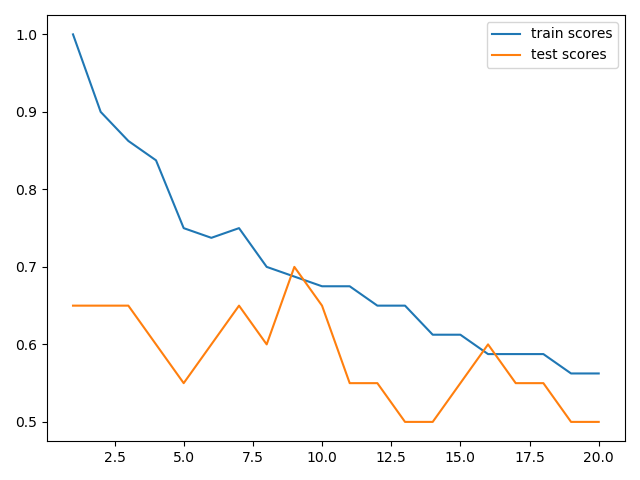
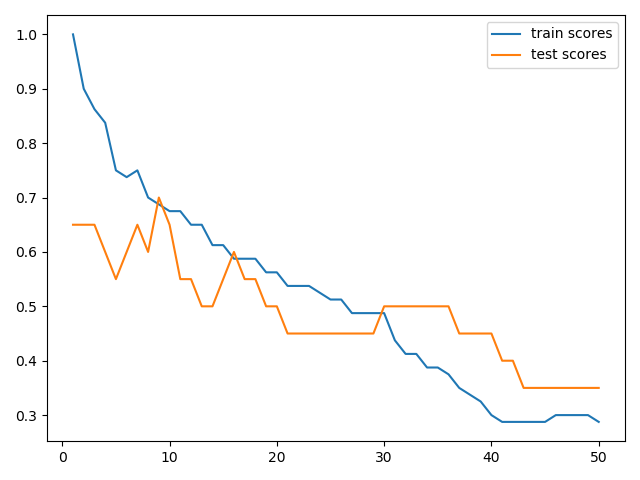
finished testing knn from scratch, sklearn, and paper (theano)

diff --git a/hw5-knn-theano.py b/hw5-knn-theano.py
@@ -5,80 +5,56 @@ from theano import tensor as T
 from random import randint, shuffle
 
 from hw5.libs.common.dataset import Dataset
-from hw5.libs.common.util import int_to_tuple
-from hw5.libs.algo.knn_sklearn import KNNSkLearn
+from hw5.libs.common.util import int_to_tuple, save_to_csv
+from hw5.libs.algo.knn_theano import KNNTheano
 from datetime import datetime
 import matplotlib.pyplot as plt
 
-def edistance(x1, x2):
-    d = x1 - x2
-    z = T.sqrt(T.dot(d, d))
-    return z
-
-# returns the labels of K neighbors
-def kneighbors(dist):
-    train  = T.matrix("train")
-    labels = T.ivector("labels")
-    test_sample = T.vector("sample")
-    k = T.iscalar("k")
-    l = T.ivector("l")
-
-    r, u = theano.scan(lambda row: dist(row, test_sample), sequences=train)
-    z = T.argsort(r)
-    i = z[0:k]
-    l = labels[i]
-    return theano.function(inputs=[train, labels, test_sample, k], outputs=l)
-
-# Returns a label by voting nearest point labels
-def get_nearest():
-    l = T.ivector("l")
-    z = T.extra_ops.bincount(l)
-    a = T.argmax(z)
-    o = l[a]
-    return theano.function(inputs=[l], outputs=o)
-
-
 if __name__ == '__main__':
+    # dataset = Dataset(train_data=1000, test_data=100)
+    # dataset = Dataset(train_data=40, test_data=10)
     dataset = Dataset(train_data=80, test_data=20)
+    # dataset = Dataset()
     X_train, Y_train, X_test, Y_test = dataset.get_dataset()
-    train_scores = []
-    test_scores = []
+    train_scores = [0, 0, 0, 0, 0, 0, 0, 0, 0]
+    test_scores = [0, 0, 0, 0, 0, 0, 0, 0, 0]
+    exec_times = [0, 0, 0, 0, 0, 0, 0, 0, 0]
 
     # Define number of iteration (K)
-    K = 20
+    K = 50 # min. value = 10
     ks = int_to_tuple(K)  # used to plot the results
 
-# def main():
-#     k = 5
-#     train, labels, labels_map = load_data('iris.data')
+    # Start KNN: sklearn
+    print("Evaluating sklearn KNN")
+    for i in range(9, K):
+        k = i+1
+        print("\nk =", k)
+        knn = KNNTheano(k)
+        knn.fit(X_train, Y_train)
 
-    # Create theano functions
-    nfcn = kneighbors(edistance)
-    gfcn = get_nearest()
+        t0 = datetime.now()
+        train_score = knn.score(X_train, Y_train)
+        train_scores.append(train_score)
+        print("Train accuracy:", train_score)
+        print("Time to compute train accuracy:", (datetime.now() - t0), "Train size:", len(Y_train))
 
-    n = len(Y_train)
-    n = randint(n / 2, n)
+        t0 = datetime.now()
+        test_score = knn.score(X_test, Y_test)
+        print("Test accuracy:", test_score)
+        test_scores.append(test_score)
+        print("Time to compute test accuracy:", (datetime.now() - t0), "Test size:", len(Y_test))
+        exec_times.append((datetime.now() - t0).total_seconds())
 
-    print("split len = ", n)
-    # print("labels map len = ", len(labels_map))
-    print("data-set len = ", len(X_train))
-    print("K = ", K)
+        # np.savetxt(fname=csv_path + 'exec-knn-theano.csv', X=str("dsd"), delimiter=',', fmt='%d')
 
-    # Split train data
-    t1 = X_train[0:n-1]
-    t2 = X_train[n:]
-    l1 = Y_train[0:n-1]
-    l2 = Y_train[n:]
-    correct = 0
+    fig = plt.figure()
+    plt.plot(ks, train_scores, label='train scores')
+    plt.plot(ks, test_scores, label='test scores')
+    plt.legend()
+    plt.show()
+    fig.savefig('hw5/results/result-knn-theano.png', dpi=fig.dpi)
+    save_to_csv('exec-knn-theano.csv', exec_times)
 
-    for idx in range(len(t2)):
-        l = nfcn(t1, l1, t2[idx], K)
-        m = gfcn(l)
-        g = l2[idx]
-        # estimate the results
-        if m == g:
-            correct = correct + 1
 
-    p = (correct / float(len(t2))) * 100.0
-    print("test results:", p, "%")
+
 

diff --git a/hw5-knn-theano-v2.py b/hw5-knn-theano-v2.py
@@ -1,0 +1,75 @@
+'''
+Super fast k-nearest-neighbour search for GPU
+Based on the method used in "Learning To Remember Rare Events"
+by Lukasz Kaiser, Ofir Nachun, Aurko Roy, and Samy Bengio
+Paper: https://openreview.net/pdf?id=SJTQLdqlg
+'''
+
+import numpy as np
+import theano
+import theano.tensor as T
+import time
+import os
+
+from hw5.libs.common.dataset import Dataset
+from hw5.libs.common.util import int_to_tuple
+
+if __name__ == '__main__':
+    dataset = Dataset(train_data=10, test_data=3)
+    # dataset = Dataset()
+    X_train, Y_train, X_test, Y_test = dataset.get_dataset()
+    train_scores = []
+    test_scores = []
+
+    print(" > Total X_train = ", len(X_train))
+    print(" > Total X_test = ", len(X_test))
+
+    print(">>> Y_test = ", Y_test)
+
+    # Define number of iteration (K)
+    K = 20
+    ks = int_to_tuple(K)  # used to plot the results
+
+
+    def l2_normalize(x, dim, epsilon=1e-12):
+        square_sum = T.sum(T.sqr(x), axis=dim)
+        x_inv_norm = T.true_div(1, T.sqrt(T.maximum(square_sum, epsilon)))
+        x_inv_norm = x_inv_norm.dimshuffle(0, 'x')
+        return T.mul(x, x_inv_norm)
+
+
+    ### Theano KNN ###
+    # Construct the theano graph
+    x_keys = T.matrix('x_keys')
+    x_queries = T.matrix('x_keys')
+
+    print(">>> x_keys = ", x_keys)
+    print(">>> x_queries = ", x_queries)
+
+    # dim = 1  # ini buat apa ya?
+
+    normalized_keys = l2_normalize(x_keys, dim=1)
+    normalized_query = l2_normalize(x_queries, dim=1)
+    # normalized_keys = l2_normalize(x_keys, dim=dim)
+    # normalized_query = l2_normalize(x_queries, dim=dim)
+    query_result = T.dot(normalized_keys, normalized_query.T)
+    pred = T.argmax(query_result, axis=0)
+
+    print(">>> normalized_keys = ", normalized_keys)
+    print(">>> normalized_query = ", normalized_query)
+    print(">>> query_result = ", query_result)
+    print(">>> pred = ", pred)
+
+    # Declare the knn function
+    knn = theano.function(inputs=[x_keys, x_queries], outputs=pred)
+
+    print("Evaluating theano KNN")
+    start = time.time()
+    nn_index = knn(X_train, X_test)
+    print(">>> nn_index = ", nn_index)
+    end = time.time()
+
+    accuracy = np.sum(Y_train[nn_index] == Y_test).astype(float) / len(Y_test)
+
+    print("Accuracy: " + str(accuracy * 100) + '%')
+    print('Took', end - start, 'seconds')

diff --git a/hw5/libs/algo/knn_theano.py b/hw5/libs/algo/knn_theano.py
@@ -1,0 +1,56 @@
+import theano, csv
+import numpy as np
+from theano import tensor as T
+
+class KNNTheano():
+    def __init__(self, k):
+        # Create theano functions
+        self.nfcn = self.__kneighbors(self.__edistance)
+        self.gfcn = self.__get_nearest()
+        self.K = k
+
+    def fit(self, X, Y):
+        self.X_train = X
+        self.Y_train = Y
+
+    # def score(self, X, Y):
+    def score(self, X_test, Y_test):
+        correct = 0
+        for idx in range(len(X_test)):
+            l = self.nfcn(self.X_train, self.Y_train, X_test[idx], self.K)
+            m = self.gfcn(l)  # predicted label
+            g = Y_test[idx]  # real label
+            # estimate the results
+            if m == g:
+                correct = correct + 1
+            # print(" ## idx= ", idx, "; Y_test[idx] = ", Y_test[idx], " CORRECT ? ", (m == g), m, g, l)
+        score = (correct / float(len(X_test))) * 100.0
+        return score
+
+    def __edistance(self, x1, x2):
+        d = x1 - x2
+        z = T.sqrt(T.dot(d, d))
+        return z
+
+    # returns the labels of K neighbors
+    def __kneighbors(self, dist):
+        print("> returns the labels of K neighbors")
+        train  = T.matrix("train")
+        labels = T.ivector("labels")
+        test_sample = T.vector("sample")
+        k = T.iscalar("k")
+        l = T.ivector("l")
+
+        r, u = theano.scan(lambda row: dist(row, test_sample), sequences=train)
+        z = T.argsort(r)
+        i = z[0:k]
+        l = labels[i]
+        return theano.function(inputs=[train, labels, test_sample, k], outputs=l)
+
+    # Returns a label by voting nearest point labels
+    def __get_nearest(self):
+        l = T.ivector("l")
+        z = T.extra_ops.bincount(l)
+        a = T.argmax(z)
+        o = l[a]
+        return theano.function(inputs=[l], outputs=o)

diff --git a/hw5-knn-sklearn.py b/hw5-knn-sklearn.py
@@ -1,5 +1,5 @@
 from hw5.libs.common.dataset import Dataset
-from hw5.libs.common.util import int_to_tuple
+from hw5.libs.common.util import int_to_tuple, save_to_csv
 from hw5.libs.algo.knn_sklearn import KNNSkLearn
 from datetime import datetime
 import matplotlib.pyplot as plt
@@ -9,9 +9,10 @@ if __name__ == '__main__':
     X_train, Y_train, X_test, Y_test = dataset.get_dataset()
     train_scores = []
     test_scores = []
+    exec_times = []
 
     # Define number of iteration (K)
-    K = 20
+    K = 50
     ks = int_to_tuple(K)  # used to plot the results
 
     # Start KNN: sklearn
@@ -35,6 +36,7 @@ if __name__ == '__main__':
         print("Test accuracy:", test_score)
         test_scores.append(test_score)
         print("Time to compute test accuracy:", (datetime.now() - t0), "Test size:", len(Y_test))
+        exec_times.append((datetime.now() - t0).total_seconds())
 
         # Result will be different in this way (below), since the training data will be trained only once.
         # it resulted same prediction and accuracy, though we changed number of neighboar (k)
@@ -64,4 +66,6 @@ if __name__ == '__main__':
     plt.legend()
     plt.show()
     fig.savefig('hw5/results/result-knn-sklearn.png', dpi=fig.dpi)
+    save_to_csv('exec-knn-sklearn.csv', exec_times) # X is an array
+
 

diff --git a/hw5/libs/common/dataset.py b/hw5/libs/common/dataset.py
@@ -26,24 +26,24 @@ class Dataset():
     # Max train dataset = 60k
     def __extract_mnist_train(self, limit):
         # fix bug: max limit = 60k
-        if limit > 60000:
-            limit = 60000
         X, Y = loadlocal_mnist(
             images_path=self.dataset_path + 'train-images.idx3-ubyte',
             labels_path=self.dataset_path + 'train-labels.idx1-ubyte')
         if limit is not None:
+            if limit > 60000:
+                limit = 60000
             X, Y = X[:limit], Y[:limit]
         return X, Y
 
     # Max test dataset = 10k
     def __extract_mnist_test(self, limit):
         # fix bug: max limit = 10k
-        if limit > 10000:
-            limit = 10000
         X, Y = loadlocal_mnist(
             images_path=self.dataset_path + 't10k-images.idx3-ubyte',
             labels_path=self.dataset_path + 't10k-labels.idx1-ubyte')
         if limit is not None:
+            if limit > 60000:
+                limit = 60000
             X, Y = X[:limit], Y[:limit]
         return X, Y
 

diff --git a/hw5-knn-scratch.py b/hw5-knn-scratch.py
@@ -5,7 +5,7 @@
 import matplotlib.pyplot as plt
 from hw5.libs.algo.knn import KNN
 from hw5.libs.common.dataset import Dataset
-from hw5.libs.common.util import int_to_tuple
+from hw5.libs.common.util import int_to_tuple, save_to_csv
 from datetime import datetime
 
 if __name__ == '__main__':
@@ -13,9 +13,10 @@ if __name__ == '__main__':
     X_train, Y_train, X_test, Y_test = dataset.get_dataset()
     train_scores = []
     test_scores = []
+    exec_times = []
 
     # Define number of iteration (K)
-    K = 20
+    K = 50
     ks = int_to_tuple(K) # used to plot the results
 
     # Start KNN: Scratch
@@ -46,3 +47,4 @@ if __name__ == '__main__':
     plt.legend()
     plt.show()
     fig.savefig('hw5/results/result-knn-scratch.png', dpi=fig.dpi)
+    save_to_csv('exec-knn-sklearn.csv', exec_times) # X is an array

diff --git a/hw5/libs/common/util.py b/hw5/libs/common/util.py
@@ -1,5 +1,11 @@
+import numpy as np
+
 def int_to_tuple(Ks):
     lst = []
     for i in range(Ks):
         lst.append((i+1))
     return tuple(lst)
+
+def save_to_csv(fname, data):
+    csv_path = 'hw5/dataset/saved_csv/'
+    np.savetxt(csv_path + 'exec-knn-theano.csv', data, delimiter=',')  # X is an array
